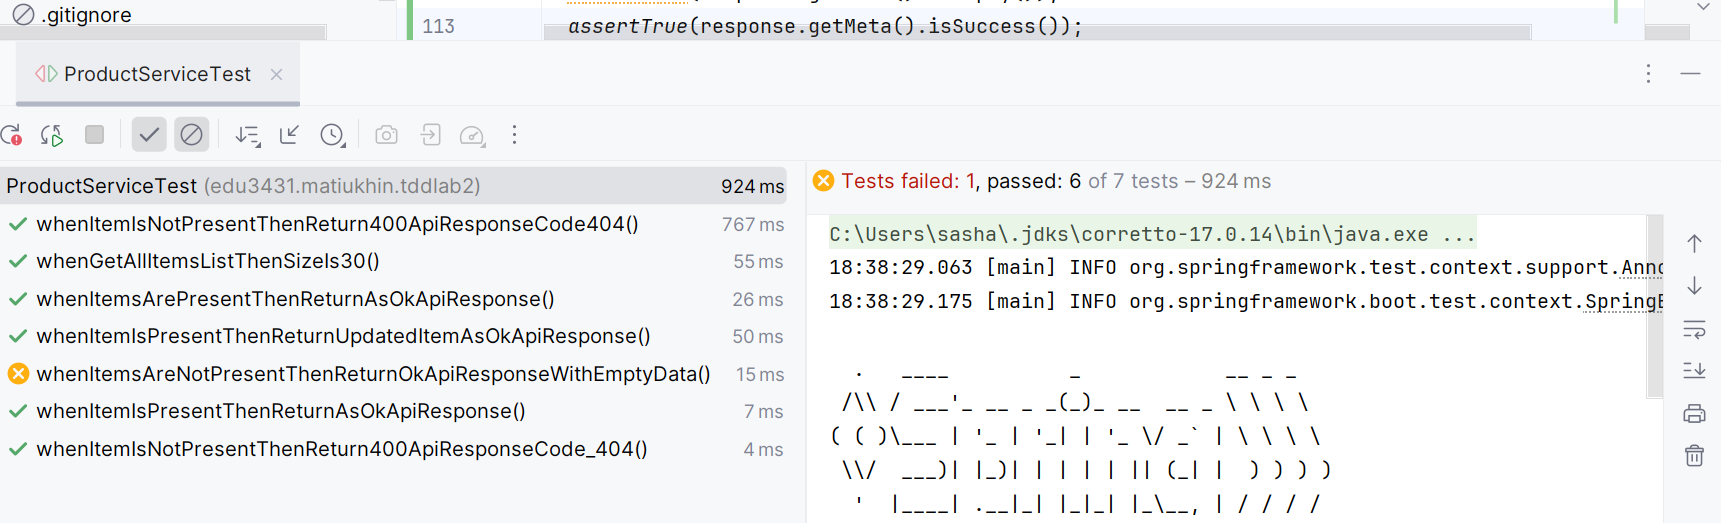
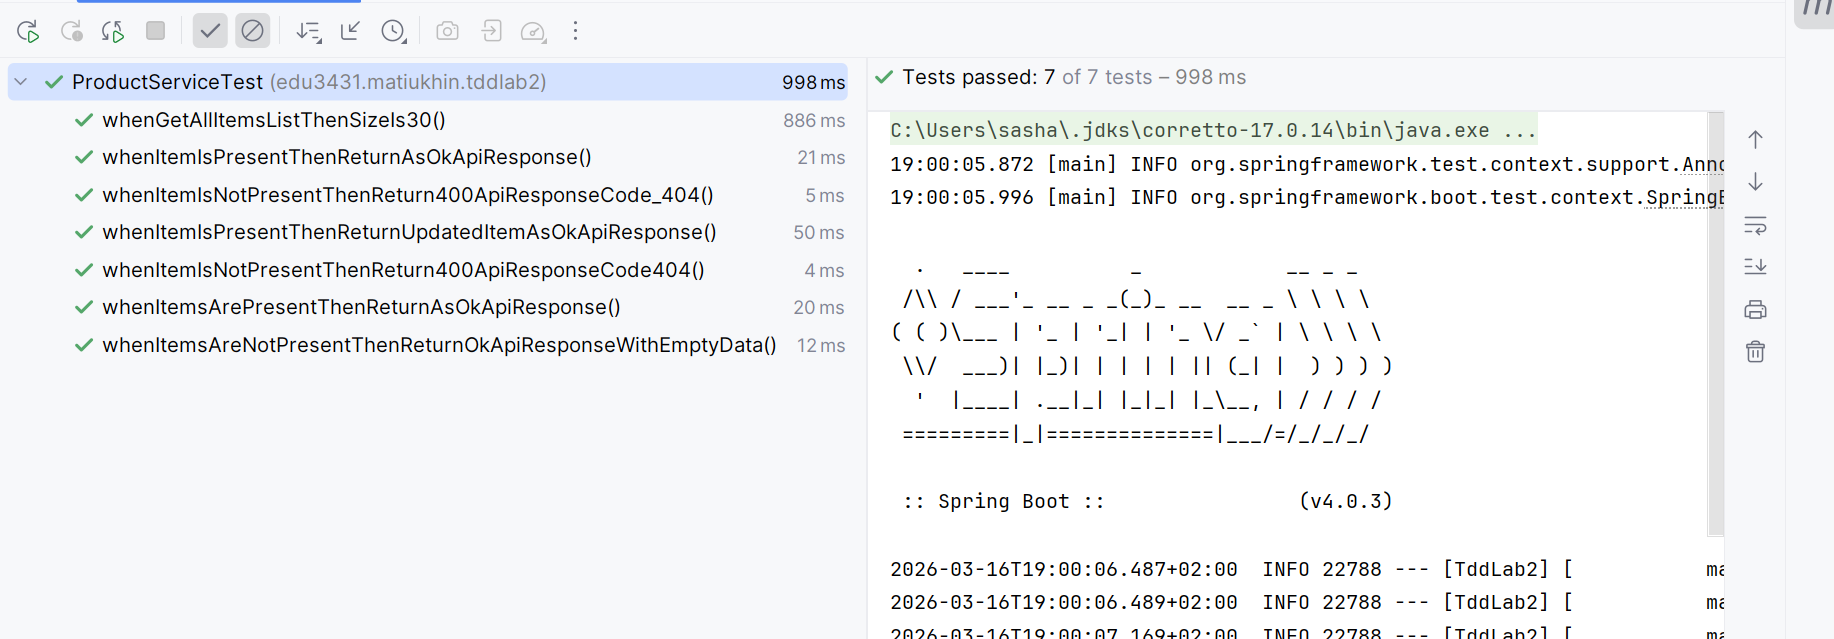
Lab 3 initial commit

diff --git a/src/test/java/edu3431/matiukhin/tddlab2/ProductServiceTest.java b/src/test/java/edu3431/matiukhin/tddlab2/ProductServiceTest.java
@@ -2,6 +2,7 @@ package edu3431.matiukhin.tddlab2;
 
 
 import edu3431.matiukhin.tddlab2.model.Product;
+import edu3431.matiukhin.tddlab2.repository.ProductRepository;
 import edu3431.matiukhin.tddlab2.request.ProductRequest;
 import edu3431.matiukhin.tddlab2.response.ApiResponse;
 import edu3431.matiukhin.tddlab2.response.BaseMetaData;
@@ -27,11 +28,14 @@ import static org.junit.jupiter.api.Assertions.*;
 @since 16.03.2026 - 16 - 12
 */
 @SpringBootTest
+@TestMethodOrder(MethodOrderer.OrderAnnotation.class)
 @TestInstance(TestInstance.Lifecycle.PER_CLASS)
 class ProductServiceTest {
 
    @Autowired
     private ProductService underTest;
+   @Autowired
+           private ProductRepository productRepository;
 
     List<Product> items = new ArrayList<>();
 
@@ -46,17 +50,17 @@ class ProductServiceTest {
     void tearsDown(){
     }
 
-
+   @Order(1)
     @Test
     void whenGetAllItemsListThenSizeIs30() {
         int size = underTest.getAll().size();
         assertEquals(30, size);
     }
-
+ @Order(2)
  @Test
  void whenItemIsPresentThenReturnAsOkApiResponse() {
   // given
-  String id = "69b80d08825fdb764db76d21";
+  String id = "69b836a5980f82888e38ed52";
   // when
   ProductRequest item = underTest.getById(id);
   ApiResponse<BaseMetaData, ProductRequest> response = underTest.getByIdAsApiResponse(id);
@@ -69,7 +73,7 @@ class ProductServiceTest {
   assertNull(response.getMeta().getErrorMessage());
   assertEquals(item, response.getData().get(0));
  }
-
+ @Order(3)
  @Test
  void whenItemIsNotPresentThenReturn400ApiResponseCode_404() {
   // given
@@ -85,39 +89,11 @@ class ProductServiceTest {
   assertEquals("Not found",response.getMeta().getErrorMessage());
  }
 
- @Test
- void whenItemsArePresentThenReturnAsOkApiResponse() {
-  // when
-  List<ProductRequest> items = underTest.getAll();
-  ApiResponse<BaseMetaData, ProductRequest> response = underTest.getAllAsApiResponse();
-
-  // then
-  assertNotNull(response);
-  assertNotNull(response.getData());
-  assertFalse(response.getData().isEmpty());
-  assertNotNull(response.getData().get(0));
-  assertTrue(response.getMeta().isSuccess());
-  assertEquals(200, response.getMeta().getCode());
-  assertNull(response.getMeta().getErrorMessage());
-  assertEquals(items, response.getData());
- }
-
- @Test
- void whenItemsAreNotPresentThenReturnOkApiResponseWithEmptyData() {
-  // when
-  ApiResponse<BaseMetaData, ProductRequest> response = underTest.getAllAsApiResponse();
-  // then
-  assertNotNull(response);
-  assertNotNull(response.getData());
-  assertTrue(response.getData().isEmpty());
-  assertTrue(response.getMeta().isSuccess());
-  assertEquals(200, response.getMeta().getCode());
-  assertNull(response.getMeta().getErrorMessage());
- }
+ @Order(4)
  @Test
  void whenItemIsPresentThenReturnUpdatedItemAsOkApiResponse() {
   // given
-  String id = "69b80d08825fdb764db76d21";
+  String id = "69b836a5980f82888e38ed52";
   ProductRequest request = new ProductRequest(
           id,
           "Updated category",
@@ -141,6 +117,7 @@ class ProductServiceTest {
   assertNull(response.getMeta().getErrorMessage());
   assertEquals(request, response.getData().get(0));
  }
+ @Order(5)
  @Test
  void whenItemIsNotPresentThenReturn400ApiResponseCode404() {
   // given
@@ -166,6 +143,37 @@ class ProductServiceTest {
   assertEquals("Not found", response.getMeta().getErrorMessage());
  }
 
+ @Order(6)
+ @Test
+ void whenItemsArePresentThenReturnAsOkApiResponse() {
+  // when
+  List<ProductRequest> items = underTest.getAll();
+  ApiResponse<BaseMetaData, ProductRequest> response = underTest.getAllAsApiResponse();
+
+  // then
+  assertNotNull(response);
+  assertNotNull(response.getData());
+  assertFalse(response.getData().isEmpty());
+  assertNotNull(response.getData().get(0));
+  assertTrue(response.getMeta().isSuccess());
+  assertEquals(200, response.getMeta().getCode());
+  assertNull(response.getMeta().getErrorMessage());
+  assertEquals(items, response.getData());
+ }
+ @Order(7)
+ @Test
+ void whenItemsAreNotPresentThenReturnOkApiResponseWithEmptyData() {
+  productRepository.deleteAll();
+  // when
+  ApiResponse<BaseMetaData, ProductRequest> response = underTest.getAllAsApiResponse();
+  // then
+  assertNotNull(response);
+  assertNotNull(response.getData());
+  assertTrue(response.getData().isEmpty());
+  assertTrue(response.getMeta().isSuccess());
+  assertEquals(200, response.getMeta().getCode());
+  assertNull(response.getMeta().getErrorMessage());
+ }
 
 
 
